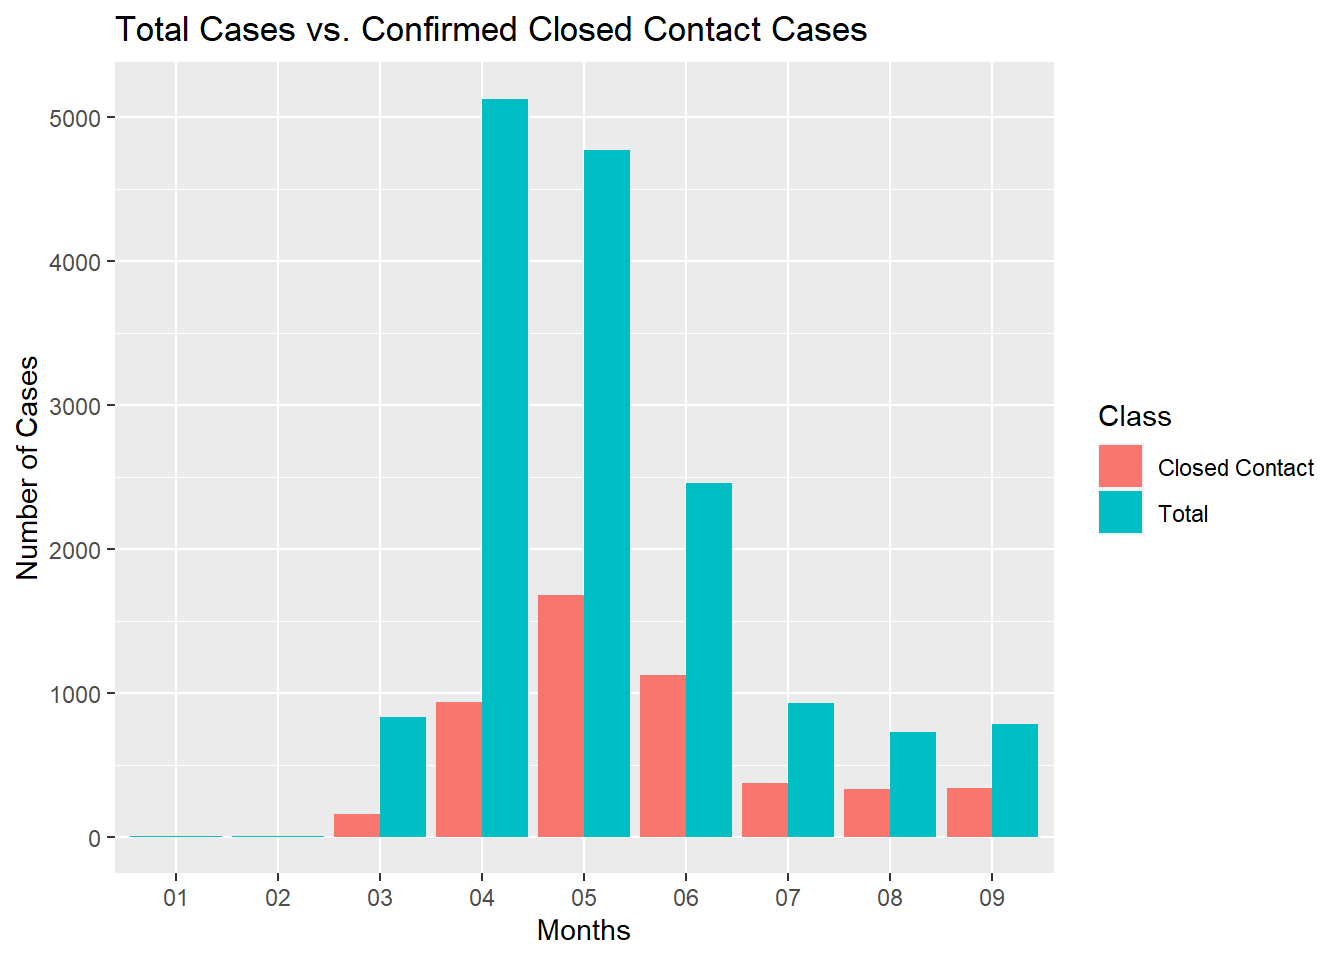
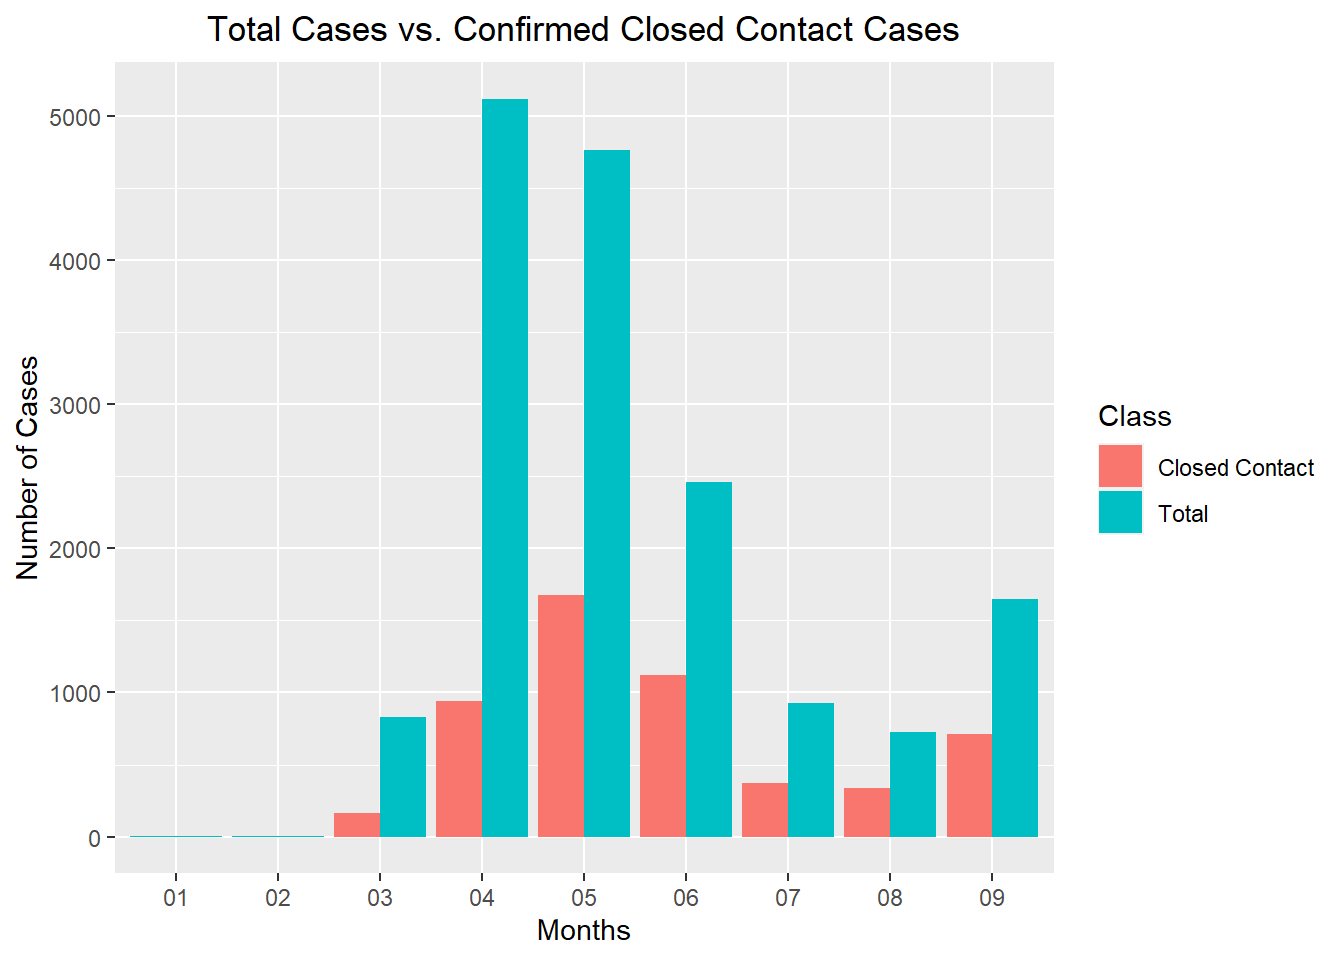
Add files via upload

diff --git a/public/2020/09/20/covid-19-on-diferent-aspects-from-toronto-cases/index.html b/public/2020/09/20/covid-19-on-diferent-aspects-from-toronto-cases/index.html
@@ -59,7 +59,7 @@
 
   <article class="article">
     
-    <span class="article-duration">8 min read</span>
+    <span class="article-duration">6 min read</span>
     
 
     <h1 class="article-title">COVID-19 on Diferent Aspects from Toronto Cases</h1>
@@ -75,25 +75,25 @@
 <pre class="r"><code>resou &lt;- list_package_resources(&quot;https://open.toronto.ca/dataset/covid-19-cases-in-toronto/&quot;)
 covdat &lt;- get_resource(resou)
 str(covdat)</code></pre>
-<pre><code>## tibble [16,942 x 18] (S3: tbl_df/tbl/data.frame)
-##  $ _id                   : int [1:16942] 126705 126706 126707 126708 126709 126710 126711 126712 126713 126714 ...
-##  $ Assigned_ID           : int [1:16942] 1 2 3 4 5 6 7 8 9 10 ...
-##  $ Outbreak Associated   : chr [1:16942] &quot;Sporadic&quot; &quot;Sporadic&quot; &quot;Sporadic&quot; &quot;Sporadic&quot; ...
-##  $ Age Group             : chr [1:16942] &quot;50 to 59 Years&quot; &quot;50 to 59 Years&quot; &quot;20 to 29 Years&quot; &quot;60 to 69 Years&quot; ...
-##  $ Neighbourhood Name    : chr [1:16942] &quot;Willowdale East&quot; &quot;Willowdale East&quot; &quot;Parkwoods-Donalda&quot; &quot;Church-Yonge Corridor&quot; ...
-##  $ FSA                   : chr [1:16942] &quot;M2N&quot; &quot;M2N&quot; &quot;M3A&quot; &quot;M4W&quot; ...
-##  $ Source of Infection   : chr [1:16942] &quot;Travel&quot; &quot;Travel&quot; &quot;Travel&quot; &quot;Travel&quot; ...
-##  $ Classification        : chr [1:16942] &quot;CONFIRMED&quot; &quot;CONFIRMED&quot; &quot;CONFIRMED&quot; &quot;CONFIRMED&quot; ...
-##  $ Episode Date          : chr [1:16942] &quot;2020-01-22&quot; &quot;2020-01-21&quot; &quot;2020-02-05&quot; &quot;2020-02-16&quot; ...
-##  $ Reported Date         : chr [1:16942] &quot;2020-01-23&quot; &quot;2020-01-23&quot; &quot;2020-02-21&quot; &quot;2020-02-25&quot; ...
-##  $ Client Gender         : chr [1:16942] &quot;FEMALE&quot; &quot;MALE&quot; &quot;FEMALE&quot; &quot;FEMALE&quot; ...
-##  $ Outcome               : chr [1:16942] &quot;RESOLVED&quot; &quot;RESOLVED&quot; &quot;RESOLVED&quot; &quot;RESOLVED&quot; ...
-##  $ Currently Hospitalized: chr [1:16942] &quot;No&quot; &quot;No&quot; &quot;No&quot; &quot;No&quot; ...
-##  $ Currently in ICU      : chr [1:16942] &quot;No&quot; &quot;No&quot; &quot;No&quot; &quot;No&quot; ...
-##  $ Currently Intubated   : chr [1:16942] &quot;No&quot; &quot;No&quot; &quot;No&quot; &quot;No&quot; ...
-##  $ Ever Hospitalized     : chr [1:16942] &quot;No&quot; &quot;Yes&quot; &quot;No&quot; &quot;No&quot; ...
-##  $ Ever in ICU           : chr [1:16942] &quot;No&quot; &quot;No&quot; &quot;No&quot; &quot;No&quot; ...
-##  $ Ever Intubated        : chr [1:16942] &quot;No&quot; &quot;No&quot; &quot;No&quot; &quot;No&quot; ...</code></pre>
+<pre><code>## tibble [17,872 x 18] (S3: tbl_df/tbl/data.frame)
+##  $ _id                   : int [1:17872] 143647 143648 143649 143650 143651 143652 143653 143654 143655 143656 ...
+##  $ Assigned_ID           : int [1:17872] 1 2 3 4 5 6 7 8 9 10 ...
+##  $ Outbreak Associated   : chr [1:17872] &quot;Sporadic&quot; &quot;Sporadic&quot; &quot;Sporadic&quot; &quot;Sporadic&quot; ...
+##  $ Age Group             : chr [1:17872] &quot;50 to 59 Years&quot; &quot;50 to 59 Years&quot; &quot;20 to 29 Years&quot; &quot;60 to 69 Years&quot; ...
+##  $ Neighbourhood Name    : chr [1:17872] &quot;Willowdale East&quot; &quot;Willowdale East&quot; &quot;Parkwoods-Donalda&quot; &quot;Church-Yonge Corridor&quot; ...
+##  $ FSA                   : chr [1:17872] &quot;M2N&quot; &quot;M2N&quot; &quot;M3A&quot; &quot;M4W&quot; ...
+##  $ Source of Infection   : chr [1:17872] &quot;Travel&quot; &quot;Travel&quot; &quot;Travel&quot; &quot;Travel&quot; ...
+##  $ Classification        : chr [1:17872] &quot;CONFIRMED&quot; &quot;CONFIRMED&quot; &quot;CONFIRMED&quot; &quot;CONFIRMED&quot; ...
+##  $ Episode Date          : chr [1:17872] &quot;2020-01-22&quot; &quot;2020-01-21&quot; &quot;2020-02-05&quot; &quot;2020-02-16&quot; ...
+##  $ Reported Date         : chr [1:17872] &quot;2020-01-23&quot; &quot;2020-01-23&quot; &quot;2020-02-21&quot; &quot;2020-02-25&quot; ...
+##  $ Client Gender         : chr [1:17872] &quot;FEMALE&quot; &quot;MALE&quot; &quot;FEMALE&quot; &quot;FEMALE&quot; ...
+##  $ Outcome               : chr [1:17872] &quot;RESOLVED&quot; &quot;RESOLVED&quot; &quot;RESOLVED&quot; &quot;RESOLVED&quot; ...
+##  $ Currently Hospitalized: chr [1:17872] &quot;No&quot; &quot;No&quot; &quot;No&quot; &quot;No&quot; ...
+##  $ Currently in ICU      : chr [1:17872] &quot;No&quot; &quot;No&quot; &quot;No&quot; &quot;No&quot; ...
+##  $ Currently Intubated   : chr [1:17872] &quot;No&quot; &quot;No&quot; &quot;No&quot; &quot;No&quot; ...
+##  $ Ever Hospitalized     : chr [1:17872] &quot;No&quot; &quot;Yes&quot; &quot;No&quot; &quot;No&quot; ...
+##  $ Ever in ICU           : chr [1:17872] &quot;No&quot; &quot;No&quot; &quot;No&quot; &quot;No&quot; ...
+##  $ Ever Intubated        : chr [1:17872] &quot;No&quot; &quot;No&quot; &quot;No&quot; &quot;No&quot; ...</code></pre>
 <pre class="r"><code>variable.names(covdat)</code></pre>
 <pre><code>##  [1] &quot;_id&quot;                    &quot;Assigned_ID&quot;            &quot;Outbreak Associated&quot;   
 ##  [4] &quot;Age Group&quot;              &quot;Neighbourhood Name&quot;     &quot;FSA&quot;                   
@@ -111,76 +111,58 @@ public health.</p>
 <p>The major event in the year 2020 is surely the outbreak of COVID-19. It has significantly changed our life. In this paper, I will explore the influence of COVID-19 on different groups of people in Toronto. And also the effectiveness of the response of Government. This paper is mainly based on the confirmed cases` data from Toronto.</p>
 <p>I mainly compared the data from each group of people such as male, female, resolved cases and fatal cases. Then I tried to find out the characteristics in each group and found out the possible reasons behind these data. The major found is that most fatal cases in the Toronto area are elder people, and this disease has indiscriminate influences across different genders.</p>
 <p>First, I traced the curve of the outbreak from Jan 2020 until now and the distribution of cases on each age group in Toronto. Then I analyzed the sources of infections on these cases, and I trace the closed contacted cases curve to see if the policy is effective. In the end, I mainly focus on the fatal and resolved cases and tried to analyze the characteristics behind these two groups. In the future I will keep monitoring the cases in Toronto, seeing if there is another event worth analyzing. This paper`s weakness is that I omit lots of cases that the data related are not available so we cannot trace them, but there might be a major influence in these cases, which could significantly influence our conclusion. Also, the data sample is too small since we only have Toronto data.</p>
-<pre class="r"><code>covdat &lt;- filter(covdat, Classification == &quot;CONFIRMED&quot;)
-#Mainly focus on the confirmed cases
-
-covdat &lt;- mutate(covdat, month = strftime(as.Date(`Reported Date`),&quot;%m&quot;))
-ggplot(covdat, aes(x = month)) + geom_histogram(stat=&quot;count&quot;) + labs(x = &quot;Months&quot;, y = &quot;Number of Confirmed Cases&quot;, title = &quot;Cases Distribution Across Months&quot;)</code></pre>
-<pre><code>## Warning: Ignoring unknown parameters: binwidth, bins, pad</code></pre>
-<p><img src="/post/2020-09-20-research-of-covid-19-on-diferent-aspects-from-toronto-cases_files/figure-html/infect-plots-1.png" width="672" /></p>
-<pre class="r"><code>ggplot(covdat, aes(x = `Age Group`)) + geom_bar(stat=&quot;count&quot;) + labs(x = &quot;Age Groups&quot;, y = &quot;Number of Confirmed Cases&quot;, title = &quot;Cases Distribution Across Age Groups&quot;) + theme(axis.text.x = element_text(angle = 45, hjust = 0.5, vjust = 0.5))</code></pre>
-<p><img src="/post/2020-09-20-research-of-covid-19-on-diferent-aspects-from-toronto-cases_files/figure-html/infect-plots-2.png" width="672" /></p>
-<pre class="r"><code>ggplot(covdat, aes(x = `Source of Infection`)) + geom_bar(stat=&quot;count&quot;) + labs(title = &quot;Infection Sources Distribution&quot;) + theme(axis.text.x = element_text(angle = 45, hjust = 0.5, vjust = 0.5))</code></pre>
-<p><img src="/post/2020-09-20-research-of-covid-19-on-diferent-aspects-from-toronto-cases_files/figure-html/infect-plots-3.png" width="672" /></p>
-<pre class="r"><code>#The highest source is NA.
-
-sources &lt;- filter(covdat, `Source of Infection` != &quot;N/A - Outbreak associated&quot;)
-
-ggplot(sources, aes(x = `Source of Infection`)) + geom_bar(stat=&quot;count&quot;) + labs(title = &quot;Filtered Infection Sources Distribution&quot;)</code></pre>
-<p><img src="/post/2020-09-20-research-of-covid-19-on-diferent-aspects-from-toronto-cases_files/figure-html/infect-plots-4.png" width="672" /></p>
-<p>The peak is in April, and started to decrease in May. There was a boost from March to April. But now it has been back to the level in March. The infection between age groups is evenly distributed.</p>
+</div>
+<div id="for-overall-cases" class="section level1">
+<h1><span style="color:purple">For Overall Cases:</span></h1>
+<p><img src="/post/2020-09-20-research-of-covid-19-on-diferent-aspects-from-toronto-cases_files/figure-html/infect-month-1.png" width="672" style="display: block; margin: auto;" /></p>
+<p>The peak is in April, and started to decrease in May. There was a boost from March to April. But now it has been back to the level in March.</p>
+<p><img src="/post/2020-09-20-research-of-covid-19-on-diferent-aspects-from-toronto-cases_files/figure-html/infect-age-1.png" width="672" style="display: block; margin: auto;" /></p>
+<p>The infection between age groups is evenly distributed.</p>
+<p><img src="/post/2020-09-20-research-of-covid-19-on-diferent-aspects-from-toronto-cases_files/figure-html/source-plots-1.png" width="672" style="display: block; margin: auto;" /></p>
 <p>There are many cases that they are NA-Outbreak Associated, which means that we don`t know the source of infection on these cases.</p>
+<p><img src="/post/2020-09-20-research-of-covid-19-on-diferent-aspects-from-toronto-cases_files/figure-html/filtered-1.png" width="672" style="display: block; margin: auto;" /></p>
 <p>The highest source of infection is close contact, which is significant higher than others.
-And the second highest is the community.
-This means social distancing is expected to be a right strategy on this outbreak.</p>
-<pre class="r"><code>contact &lt;- filter(sources, `Source of Infection` == &quot;Close contact&quot;)
-#This is only the cases infected by close contact
-
-contact_case &lt;- summarise(group_by(contact, month), Class = &quot;Closed Contact&quot;, count=n(), .groups = &#39;drop&#39;)
-total_case &lt;- summarise(group_by(covdat, month), Class = &quot;Total&quot;, count=n(), .groups = &#39;drop&#39;)
-cases &lt;- rbind(contact_case, total_case)
-ggplot(cases, aes(x=month, y=count, fill = Class)) + geom_bar(stat=&quot;identity&quot;, position=&quot;dodge&quot;) + labs(x = &quot;Months&quot;, y = &quot;Number of Cases&quot;, title = &quot;Total Cases vs. Confirmed Closed Contact Cases&quot;)</code></pre>
-<p><img src="/post/2020-09-20-research-of-covid-19-on-diferent-aspects-from-toronto-cases_files/figure-html/covdat-contact-1.png" width="672" /></p>
+And the second highest is the community.</p>
+<p><img src="/post/2020-09-20-research-of-covid-19-on-diferent-aspects-from-toronto-cases_files/figure-html/covdat-contact-1.png" width="672" style="display: block; margin: auto;" /></p>
 <p>Since April 1st, there was an emergency response from Ontario Government. But the close contact confirmed cases increases to the peak in May. Then this policy starts to take effect in June, and making significant effect in the following three months until now.</p>
-<pre class="r"><code>#For the fatal cases
-fata &lt;- filter(covdat, covdat$Outcome == &quot;FATAL&quot;)
-ggplot(fata, aes(x = `Age Group`)) + geom_bar(stat=&quot;count&quot;) + labs(x = &quot;Age Groups&quot;, y = &quot;Number of Cases&quot;, title = &quot;Age Group Distribution in Fatal Cases&quot;) + theme(axis.text.x = element_text(angle = 45, hjust = 0.5, vjust = 0.5))</code></pre>
-<p><img src="/post/2020-09-20-research-of-covid-19-on-diferent-aspects-from-toronto-cases_files/figure-html/fata-1.png" width="672" /></p>
-<pre class="r"><code>ggplot(fata, aes(x = `Client Gender`)) + geom_bar(stat=&quot;count&quot;) + labs(x = &quot;Genders&quot;, y = &quot;Number of Cases&quot;, title = &quot;Gender Group Distribution in Fatal Cases&quot;)</code></pre>
-<p><img src="/post/2020-09-20-research-of-covid-19-on-diferent-aspects-from-toronto-cases_files/figure-html/fata-2.png" width="672" /></p>
-<pre class="r"><code>summ1 &lt;- summarise(fata, Total = count(fata),
-          Ever_Hospitalized = count(filter(fata, `Ever Hospitalized` == &quot;Yes&quot;)), 
-          Ever_in_ICU = count(filter(fata, `Ever in ICU` == &quot;Yes&quot;)),
-          Ever_Intubated = count(filter(fata, `Ever Intubated` == &quot;Yes&quot;)))
-
-barplot(unlist(summ1), names.arg=c(&quot;Total&quot;, &quot;Ever Hospitalized&quot;, &quot;Ever in ICU&quot;, &quot;Ever Intubated&quot;), main = &quot;Fatal Cases` History of Inpatient Visits&quot;)</code></pre>
-<p><img src="/post/2020-09-20-research-of-covid-19-on-diferent-aspects-from-toronto-cases_files/figure-html/fata-3.png" width="672" /></p>
-<pre class="r"><code>percent &lt;- (summ1$Ever_Hospitalized + summ1$Ever_in_ICU + summ1$Ever_Intubated) * 100/summ1$Total
-percent</code></pre>
-<pre><code>##          n
-## 1 71.14385</code></pre>
+<pre class="r"><code>full_contact &lt;- c(0,0,contact_case$count)
+cor.test(full_contact, total_case$count)</code></pre>
+<pre><code>## 
+##  Pearson&#39;s product-moment correlation
+## 
+## data:  full_contact and total_case$count
+## t = 4.9282, df = 7, p-value = 0.001698
+## alternative hypothesis: true correlation is not equal to 0
+## 95 percent confidence interval:
+##  0.5229006 0.9747969
+## sample estimates:
+##       cor 
+## 0.8810577</code></pre>
+<p>Low P-value from result of cor.test() means total cases is related to close contact cases.
+The sample estimates means that the total cases are estimated 88.1% related by closed contact cases.
+This means social distancing is expected to be a right strategy on this outbreak.</p>
+</div>
+<div id="for-fatal-cases" class="section level1">
+<h1><span style="color:red">For Fatal Cases:</span></h1>
+<p><img src="/post/2020-09-20-research-of-covid-19-on-diferent-aspects-from-toronto-cases_files/figure-html/fata-age-1.png" width="672" style="display: block; margin: auto;" /></p>
 <p>Most of cases are elder people. This is reasonable because they generally have weaker health conditions. As the age increases, the fatal cases also increase.</p>
+<p><img src="/post/2020-09-20-research-of-covid-19-on-diferent-aspects-from-toronto-cases_files/figure-html/fata-gender-1.png" width="672" style="display: block; margin: auto;" /></p>
 <p>Gender seems have no influence on the fatal outcomes</p>
+<p><img src="/post/2020-09-20-research-of-covid-19-on-diferent-aspects-from-toronto-cases_files/figure-html/fata-hosip-1.png" width="672" style="display: block; margin: auto;" /></p>
 <p>Nearly half of fatal cases have ever hospitalized. And about 71% of total fatal cases got treated.</p>
-<pre class="r"><code>#For the resolved cases
-resol &lt;- filter(covdat, Outcome == &quot;RESOLVED&quot;)
-ggplot(resol, aes(x = `Age Group`)) + geom_bar(stat=&quot;count&quot;) + labs(x = &quot;Age Groups&quot;, y = &quot;Number of Cases&quot;, title = &quot;Age Group Distribution in Resolved Cases&quot;) + theme(axis.text.x = element_text(angle = 45, hjust = 0.5, vjust = 0.5))</code></pre>
-<p><img src="/post/2020-09-20-research-of-covid-19-on-diferent-aspects-from-toronto-cases_files/figure-html/covdat-resol-1.png" width="672" /></p>
-<pre class="r"><code>summ &lt;- summarise(resol, Total = count(resol),
-          Ever_Hospitalized = count(filter(resol, `Ever Hospitalized` == &quot;Yes&quot;)), 
-          Ever_in_ICU = count(filter(resol, `Ever in ICU` == &quot;Yes&quot;)),
-          Ever_Intubated = count(filter(resol, `Ever Intubated` == &quot;Yes&quot;)))
-
-barplot(unlist(summ), names.arg=c(&quot;Total&quot;, &quot;Ever Hospitalized&quot;, &quot;Ever in ICU&quot;, &quot;Ever Intubated&quot;), main = &quot;Resolved Cases` History of Inpatient Visits&quot;)</code></pre>
-<p><img src="/post/2020-09-20-research-of-covid-19-on-diferent-aspects-from-toronto-cases_files/figure-html/covdat-resol-2.png" width="672" /></p>
+</div>
+<div id="for-resolved-cases" class="section level1">
+<h1><span style="color:blue">For Resolved Cases:</span></h1>
+<p><img src="/post/2020-09-20-research-of-covid-19-on-diferent-aspects-from-toronto-cases_files/figure-html/resol-age-1.png" width="672" style="display: block; margin: auto;" /></p>
 <p>Younger people seems more likely to recover from this.</p>
+<p><img src="/post/2020-09-20-research-of-covid-19-on-diferent-aspects-from-toronto-cases_files/figure-html/resol-hosip-1.png" width="672" style="display: block; margin: auto;" /></p>
 <p>We can see that in most resolved cases, people can recover without even being hospitalized.
 So immune system is making a great effect in this outbreak.</p>
 </div>
 <div id="discussion" class="section level1">
 <h1>Discussion</h1>
 <p>COVID-19 is making no difference on different gender groups, but age groups. Elder people cases are more likely to be fatal based on Toronto data. And recovery of this disease is heavily based on immune system. Also, every age group could have equally chance to get infected.</p>
-<p>Despite the unknown source of infection cases, the major source is close contact. The government published a law in April to enforce social distancing. This law is making its effect in June, and it is indeed effective. The level of confirmed cases in Toronto has back to a relatively low level.</p>
+<p>Despite the unknown source of infection cases, the major source is close contact. The government published a law in April to enforce social distancing. This law is making its effect in June, and it is effective. The level of confirmed cases in Toronto in Sept shows the sign of increasing now.</p>
 </div>
 <div id="weakness" class="section level1">
 <h1>Weakness</h1>
